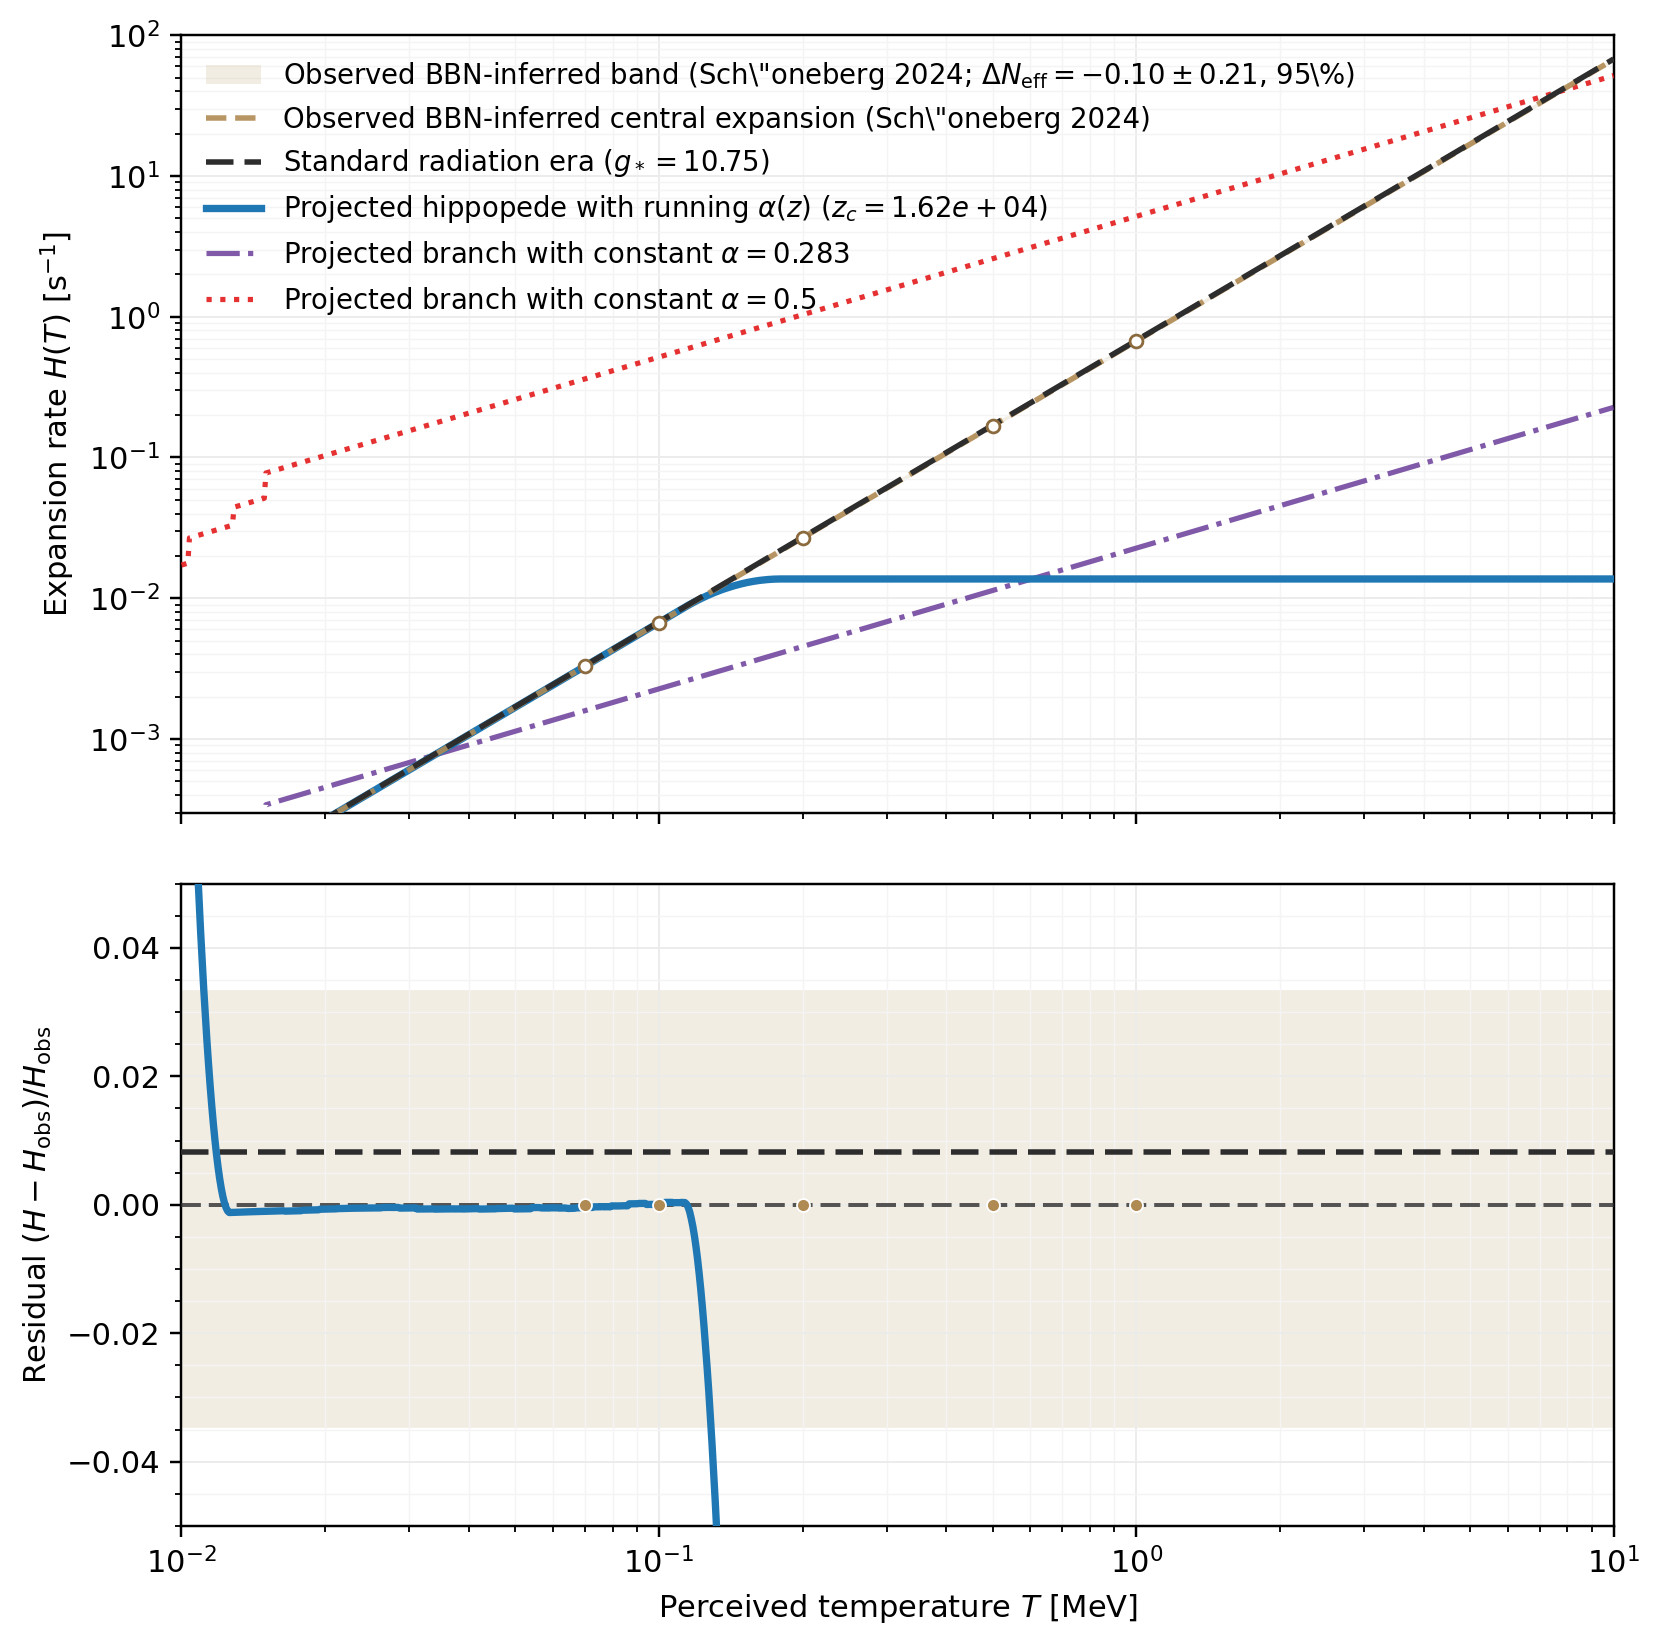
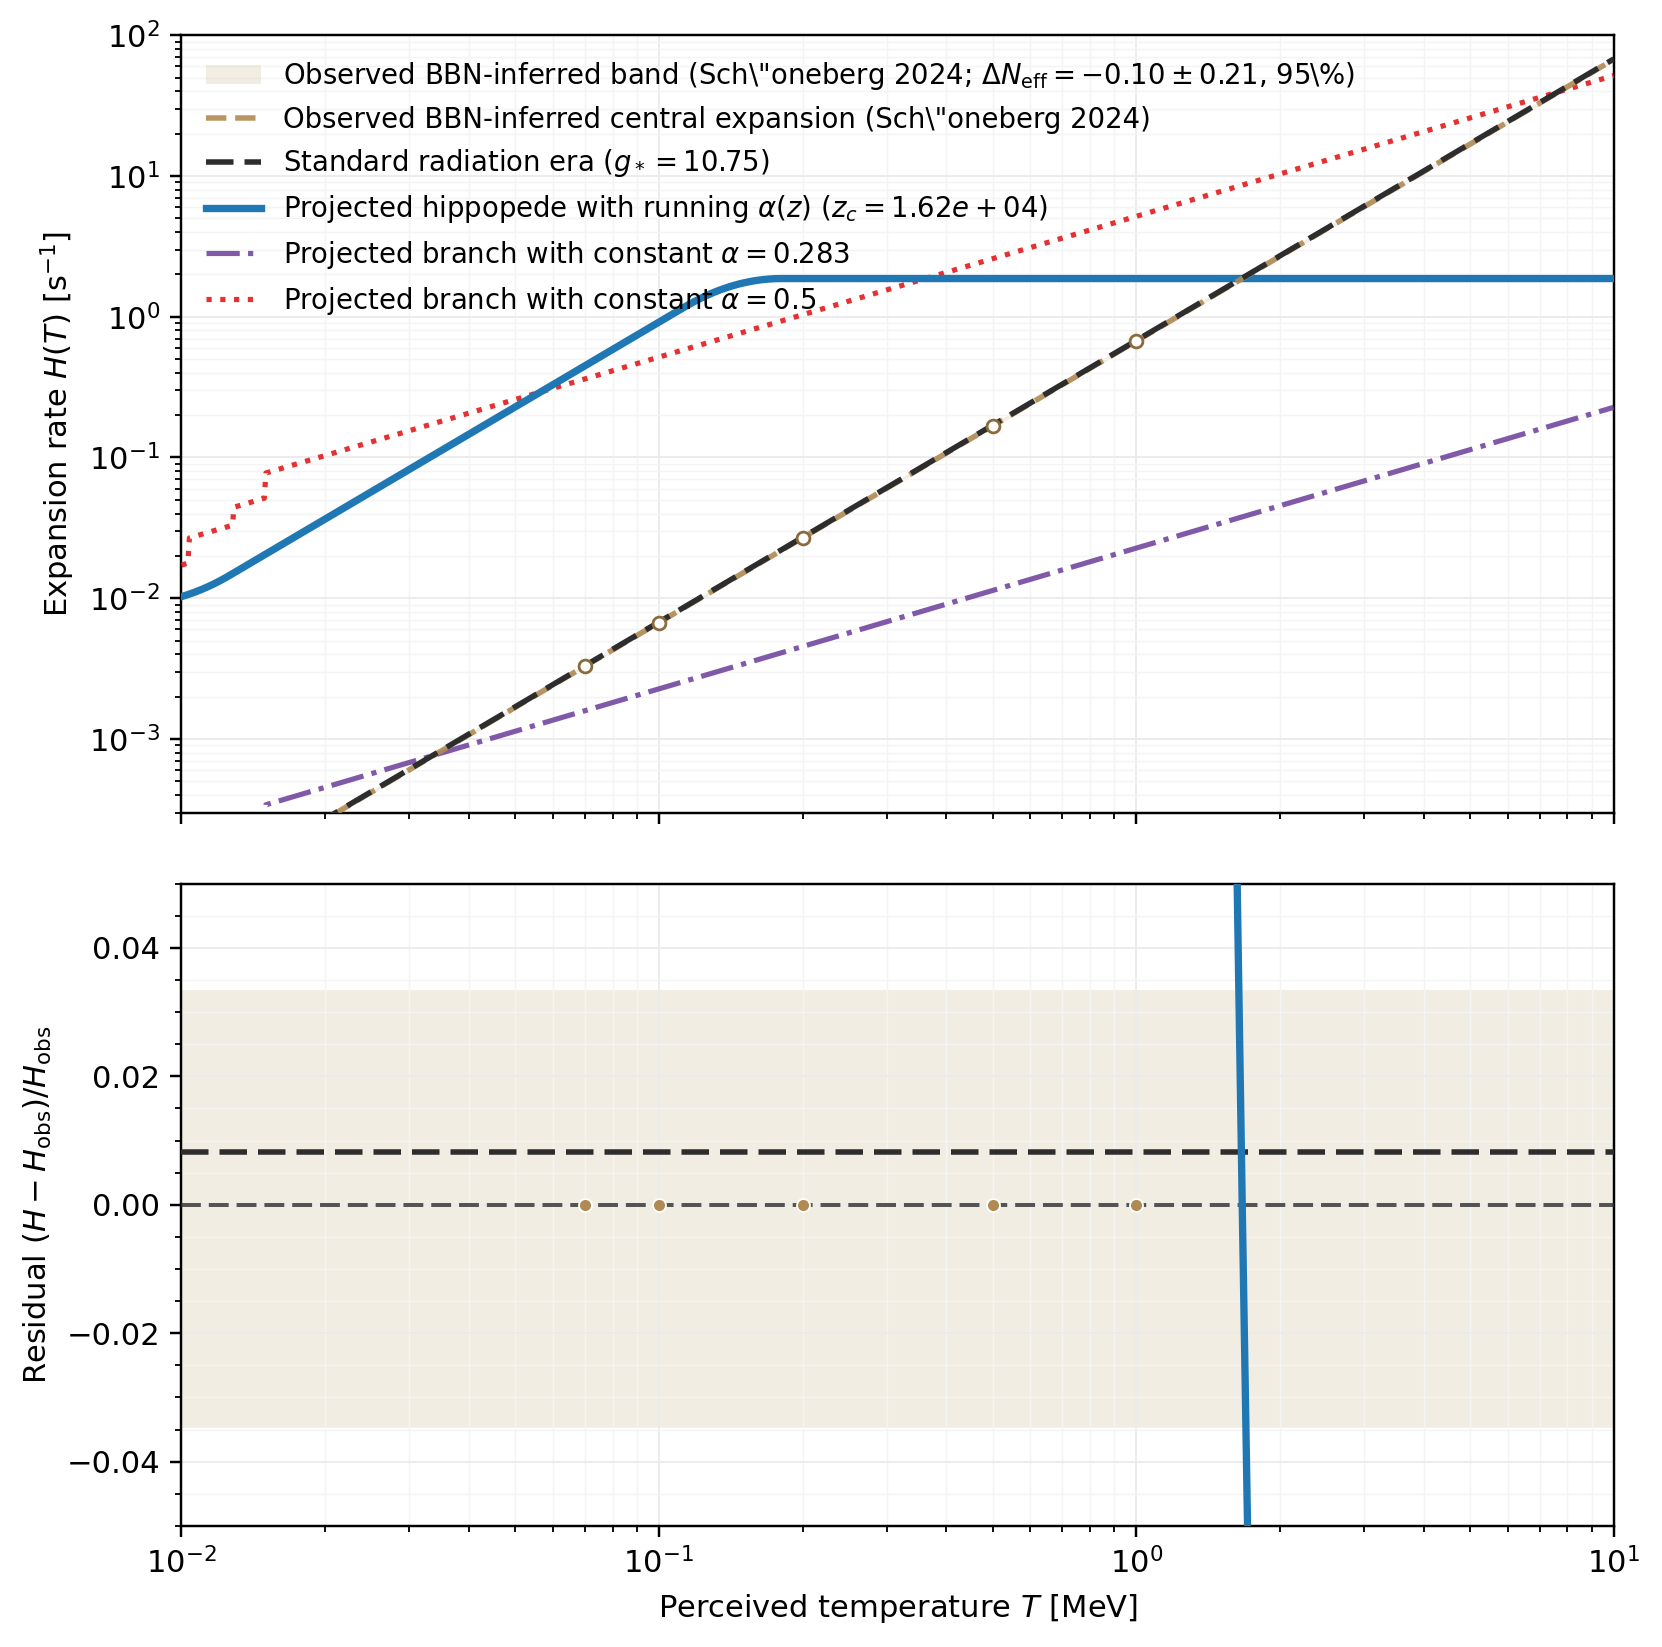
Auto-sync local changes 2026-04-20 08:39:51

diff --git a/scripts/plot_hippopede_projected_thermal_history_bbn.py b/scripts/plot_hippopede_projected_thermal_history_bbn.py
@@ -63,14 +63,16 @@ def e_constant_alpha(model: ExtendedProjectedHyperconical, z: np.ndarray):
 
 def e_variable_alpha(model: ExtendedProjectedHyperconical, z: np.ndarray, zc: float = ZC, delta: float = DELTA):
     z = np.asarray(z, dtype=float)
-    x = model.x_from_lz(np.log1p(z))
+    lz = np.log1p(z)
+    x = model.x_from_lz(lz)
     u = np.sqrt(np.maximum(1.0 / model.k - x**2, 1.0e-14))
     y = np.arctan2(x, u)
     a = alpha_logistic(z, zc=zc, delta=delta)
     g = np.maximum(1.0 - y / model.y0, 1.0e-12)
     t = (y / 2.0) / (g**a)
     rhat = 2.0 * np.arctan(t)
-    dr_dz = np.gradient(rhat, z, edge_order=2)
+    dr_dlz = np.gradient(rhat, lz, edge_order=2)
+    dr_dz = dr_dlz / (1.0 + z)
     dr_dz = np.where(np.abs(dr_dz) < 1.0e-18, np.sign(dr_dz) * 1.0e-18 + (dr_dz == 0.0) * 1.0e-18, dr_dz)
     h_raw = 1.0 / dr_dz
     h0 = np.interp(0.0, z, h_raw)
@@ -99,8 +101,8 @@ def main():
 
     model_low = ExtendedProjectedHyperconical(alpha=ALPHA_LOW)
     model_half = ExtendedProjectedHyperconical(alpha=ALPHA_HIGH)
-    z_eval = np.unique(np.concatenate(([0.0], np.geomspace(1.0e3, max(1.0e10, z.max() * 1.05), 5000), z)))
-    z_eval.sort()
+    lz_eval = np.linspace(0.0, np.log1p(max(1.0e10, z.max() * 1.05)), 20000)
+    z_eval = np.expm1(lz_eval)
 
     h_std = standard_radiation_hubble(temperatures)
     e_low = e_constant_alpha(model_low, z_eval)
